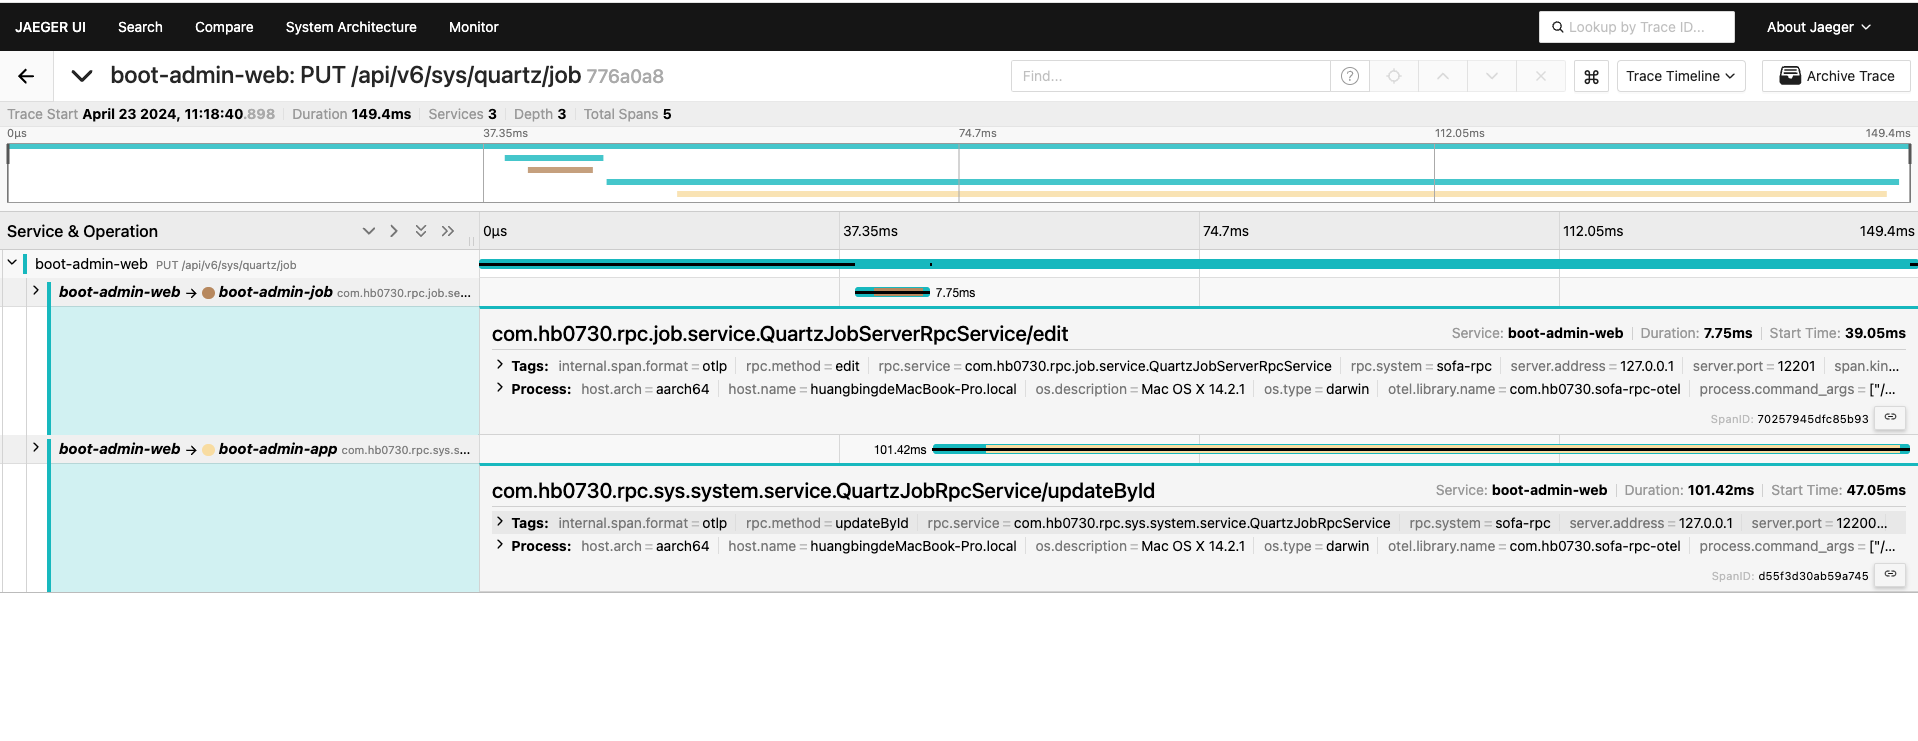
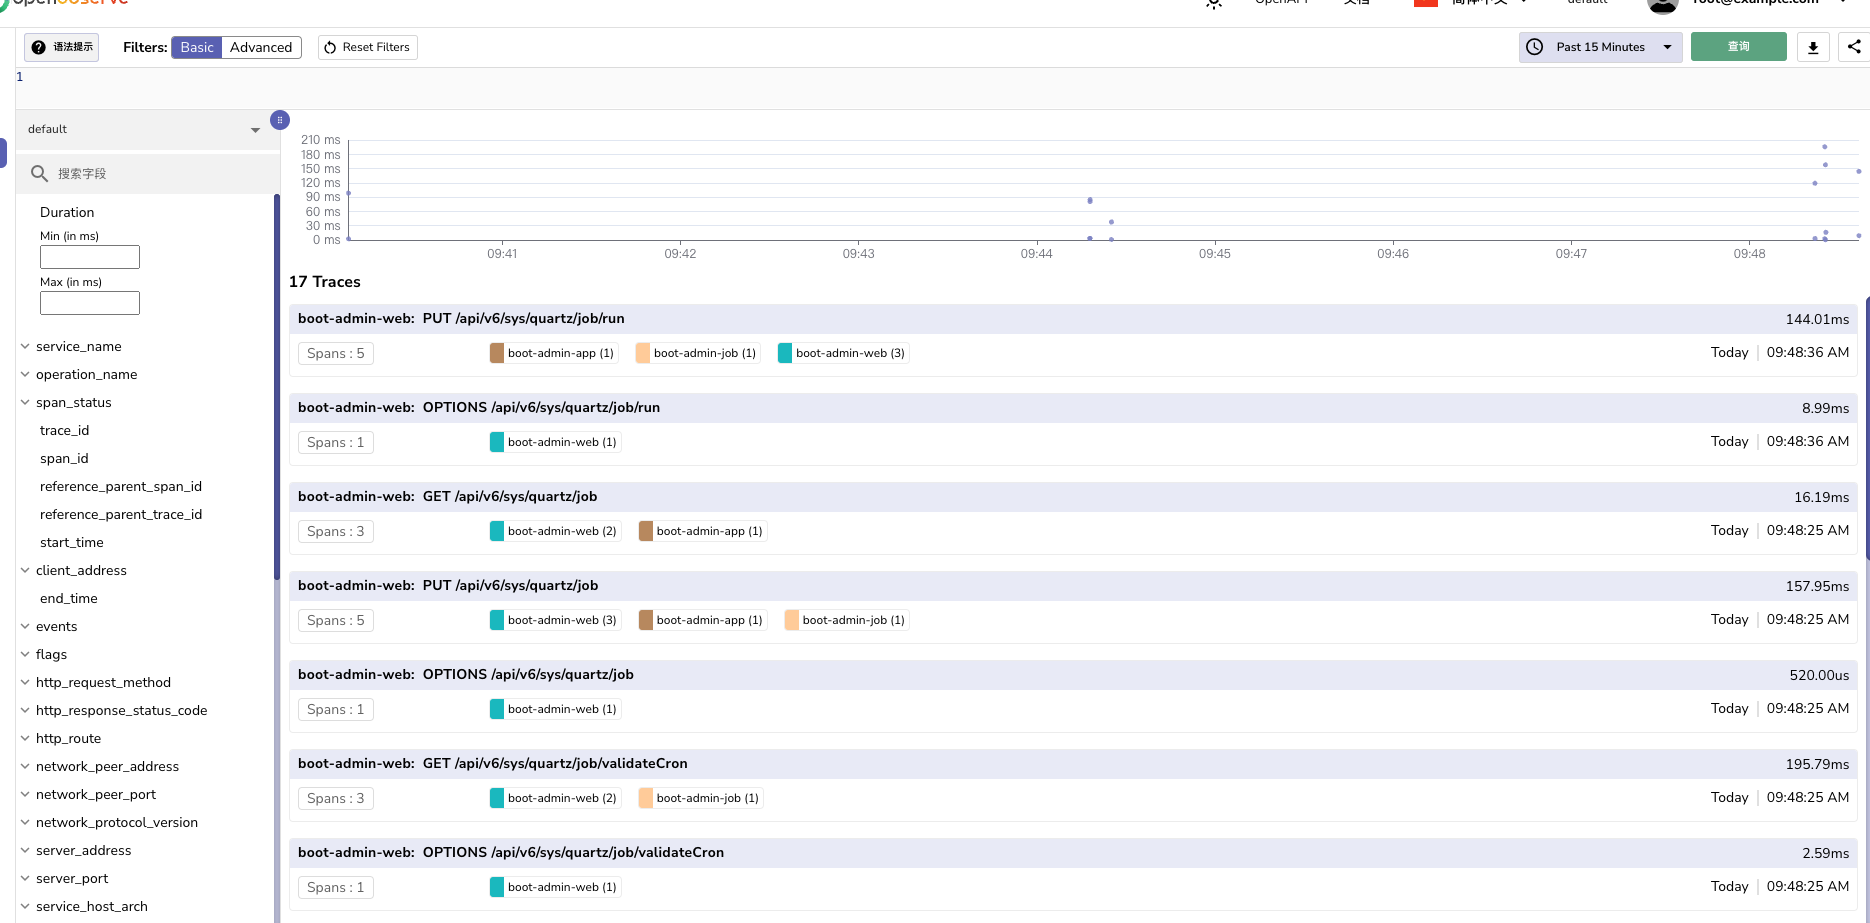
fix: 优化关于otel与rpc配置读取问题

Changed region(s): [[0.0, 0.0, 1.0, 1.0]]

diff --git a/commons/common-base/src/main/java/com/hb0730/base/AppUtil.java b/commons/common-base/src/main/java/com/hb0730/base/AppUtil.java
@@ -30,6 +30,18 @@ public class AppUtil extends SpringUtil {
                 SpringUtil.getApplicationContext().getBeansWithAnnotation(annotationType),
                 (key, value) -> type.cast(value)
         );
+    }
 
+    /**
+     * 获取bean
+     *
+     * @param type         bean类型
+     * @param defaultValue 默认值
+     * @param <T>          bean类型
+     * @return bean
+     */
+    public static <T> T getBean(Class<T> type, T defaultValue) {
+        T value = SpringUtil.getBean(type);
+        return value == null ? defaultValue : value;
     }
 }
